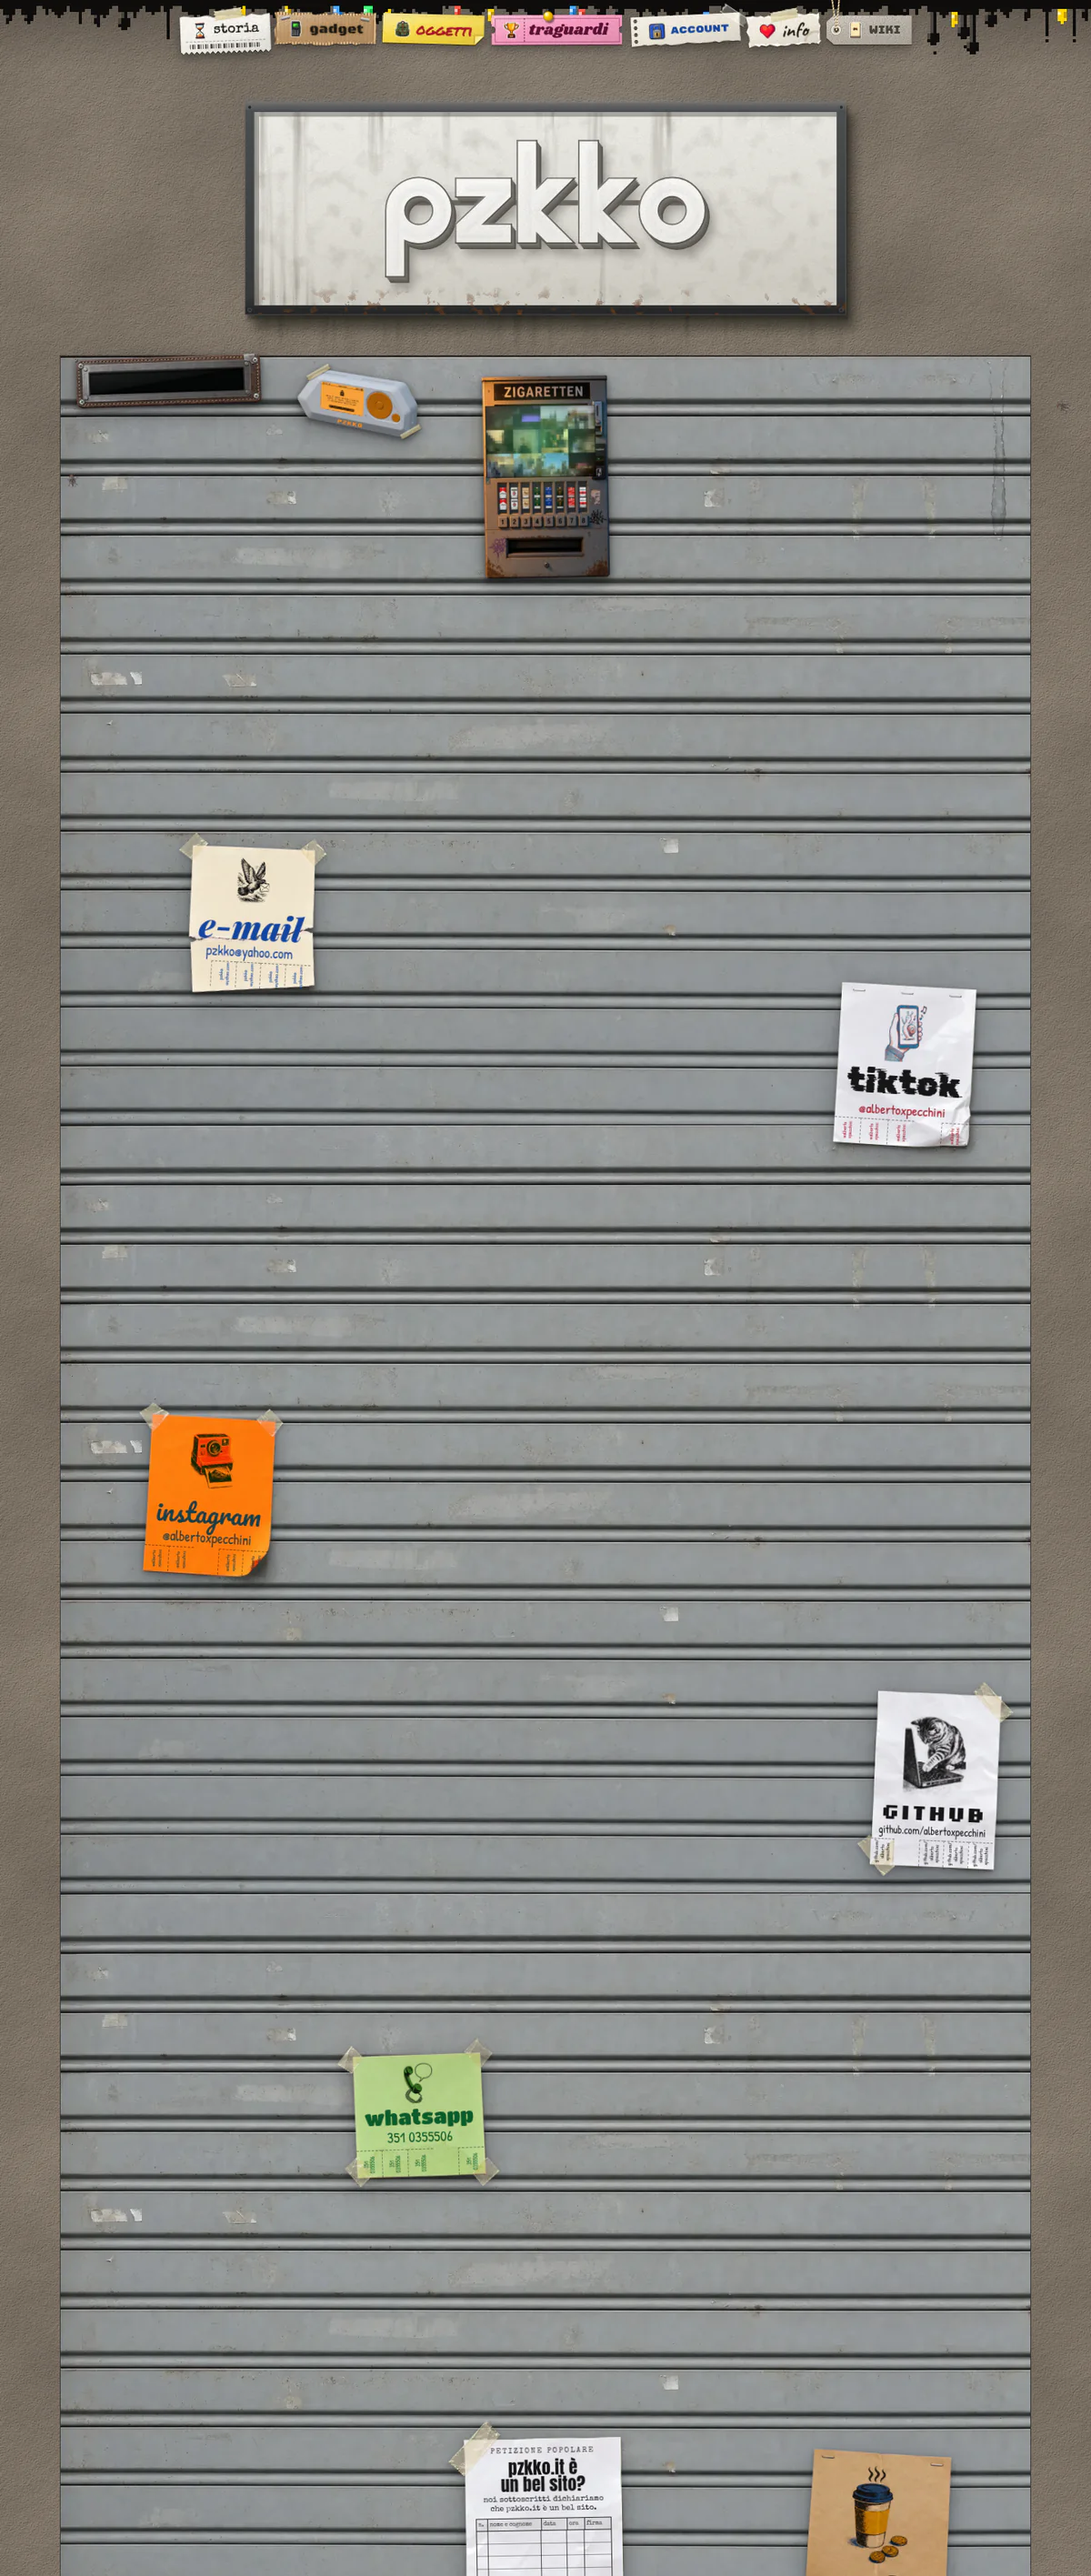
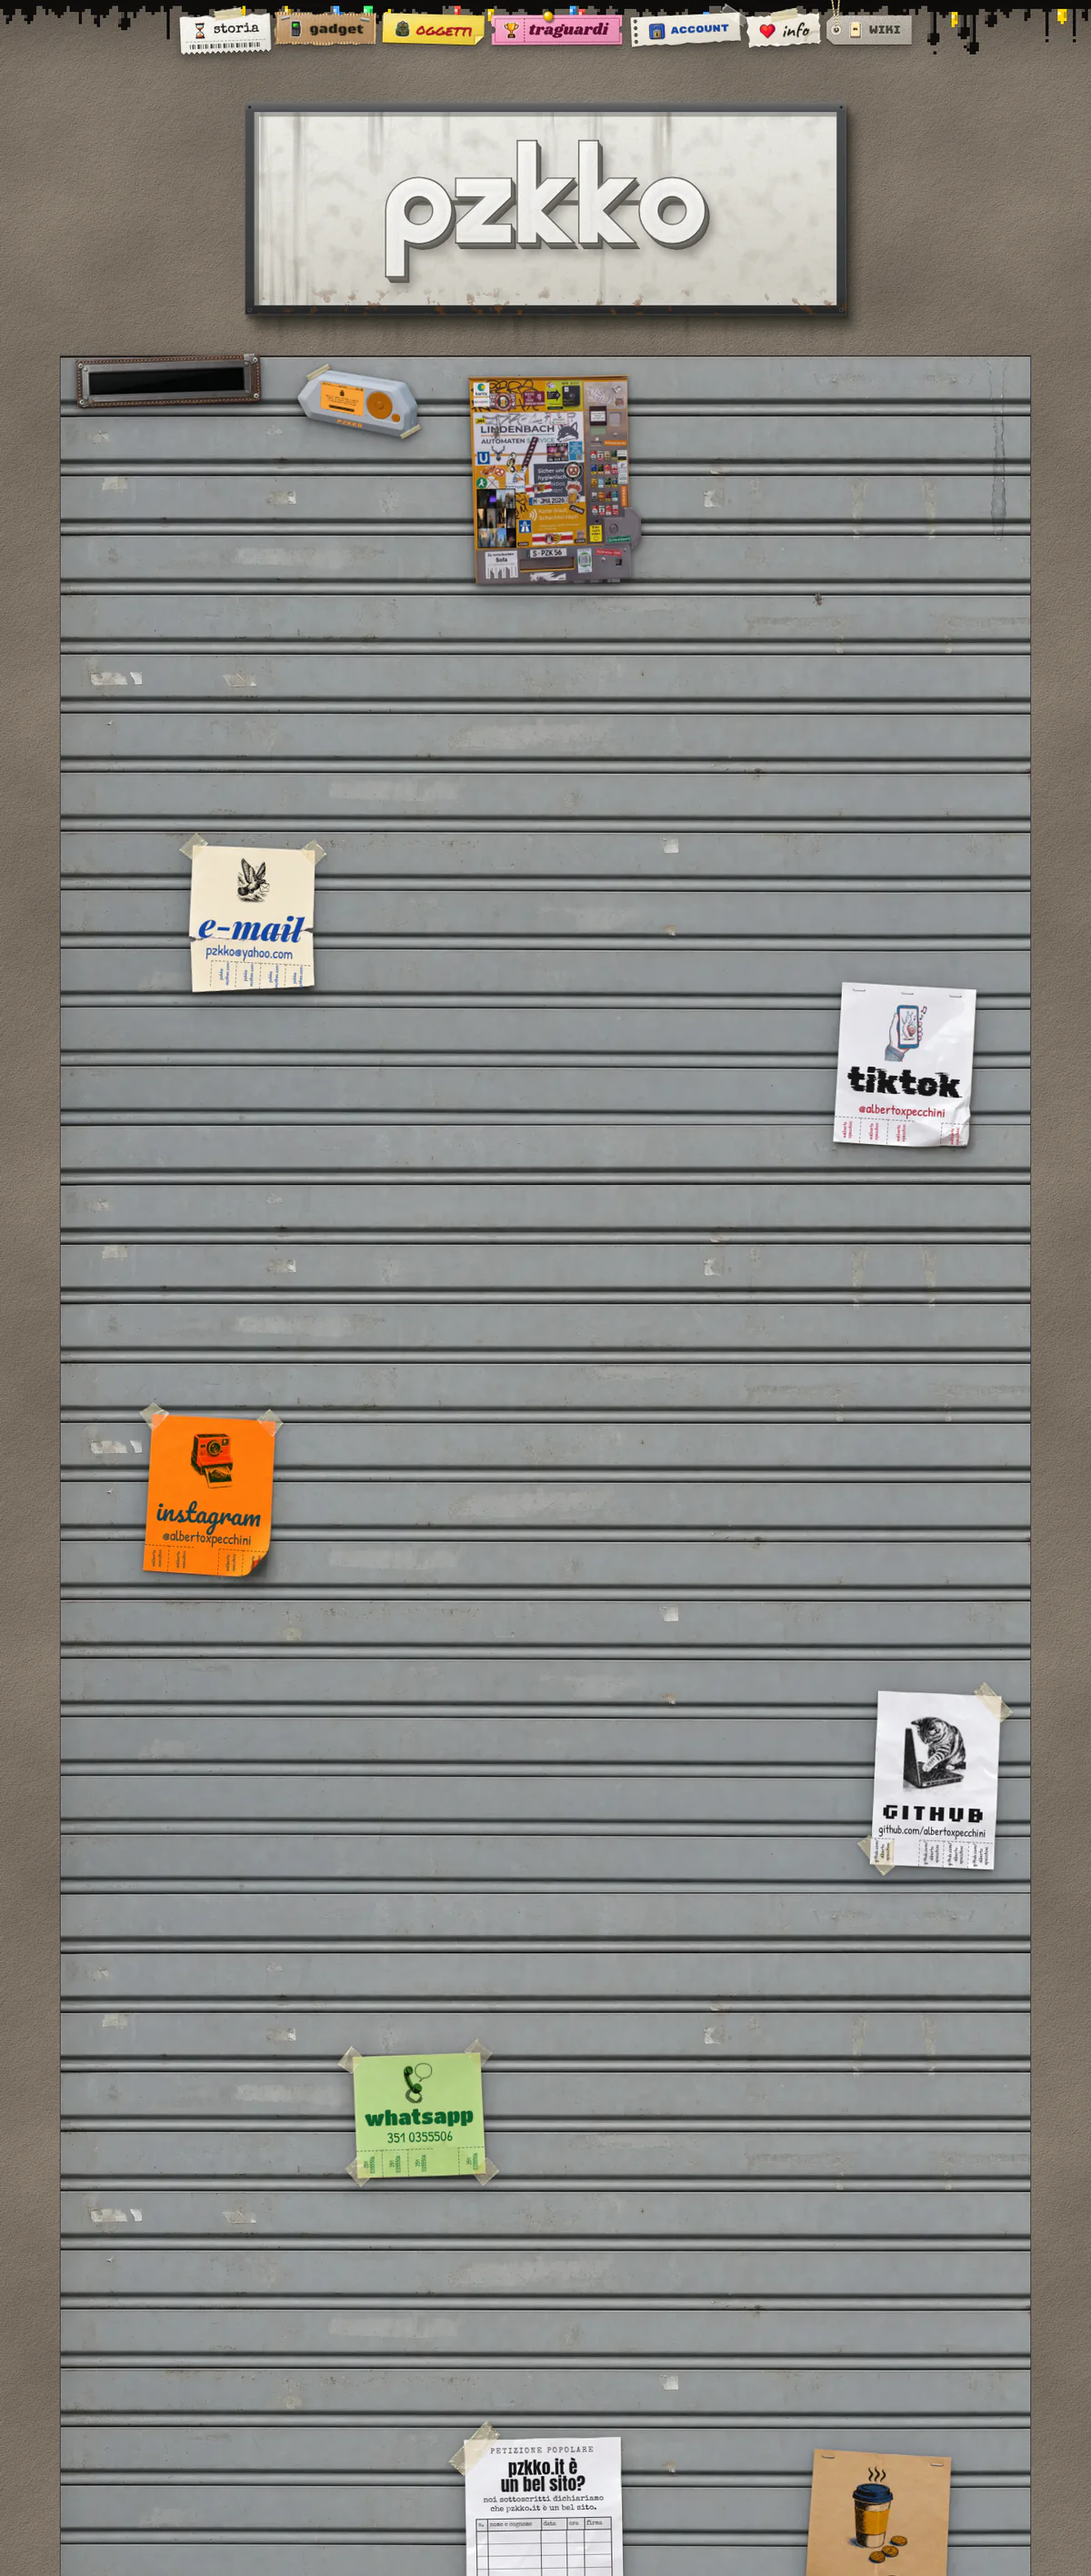
Catture aggiornate: pzkko
Rifatte da .github/workflows/catture.yml: il sito online era cambiato.

Changed region(s): [[0.4317, 0.1242, 0.5858, 0.2485]]

diff --git a/albertopecchini.it/src/data/catture.js b/albertopecchini.it/src/data/catture.js
@@ -28,16 +28,16 @@ export const catture = {
   'dd-mobile-tall.webp': { w: 600, h: 4000, v: 'e5cc57ff' },
   'dd-mobile.webp': { w: 600, h: 1298, v: 'd27374c1' },
   'dd-tablet.webp': { w: 720, h: 1036, v: 'dbd21b79' },
-  'pzk-404-mobile.webp': { w: 600, h: 1298, v: 'aa0390a8' },
+  'pzk-404-mobile.webp': { w: 600, h: 1298, v: '0977e2df' },
   'pzk-bologna-m.webp': { w: 540, h: 720, v: 'ae6d59d0' },
   'pzk-bologna.webp': { w: 1080, h: 1440, v: '4cc7cd1d' },
-  'pzk-desktop-tall.webp': { w: 1200, h: 2833, v: '5688fe30' },
-  'pzk-desktop.webp': { w: 1200, h: 750, v: '6fabe8b6' },
-  'pzk-mobile-tall.webp': { w: 600, h: 4000, v: '23ede897' },
-  'pzk-mobile.webp': { w: 600, h: 1298, v: '856d3bd2' },
-  'pzk-notte-desktop.webp': { w: 1200, h: 750, v: 'd0755466' },
-  'pzk-roulette-tablet.webp': { w: 720, h: 960, v: '62c49fd7' },
-  'pzk-tablet.webp': { w: 720, h: 1036, v: 'e2284686' },
+  'pzk-desktop-tall.webp': { w: 1200, h: 2833, v: 'c821d657' },
+  'pzk-desktop.webp': { w: 1200, h: 750, v: '8e3aef93' },
+  'pzk-mobile-tall.webp': { w: 600, h: 4000, v: '8aa76988' },
+  'pzk-mobile.webp': { w: 600, h: 1298, v: '6e7d09f3' },
+  'pzk-notte-desktop.webp': { w: 1200, h: 750, v: '5ae245b4' },
+  'pzk-roulette-tablet.webp': { w: 720, h: 960, v: 'fb7c7a9d' },
+  'pzk-tablet.webp': { w: 720, h: 1036, v: '511c96c8' },
   'rivalta-desktop-tall.webp': { w: 1200, h: 2833, v: 'd17d9c4d' },
   'rivalta-desktop.webp': { w: 1200, h: 750, v: '823ee038' },
   'rivalta-luogo-tablet.webp': { w: 720, h: 960, v: '9c234437' },
